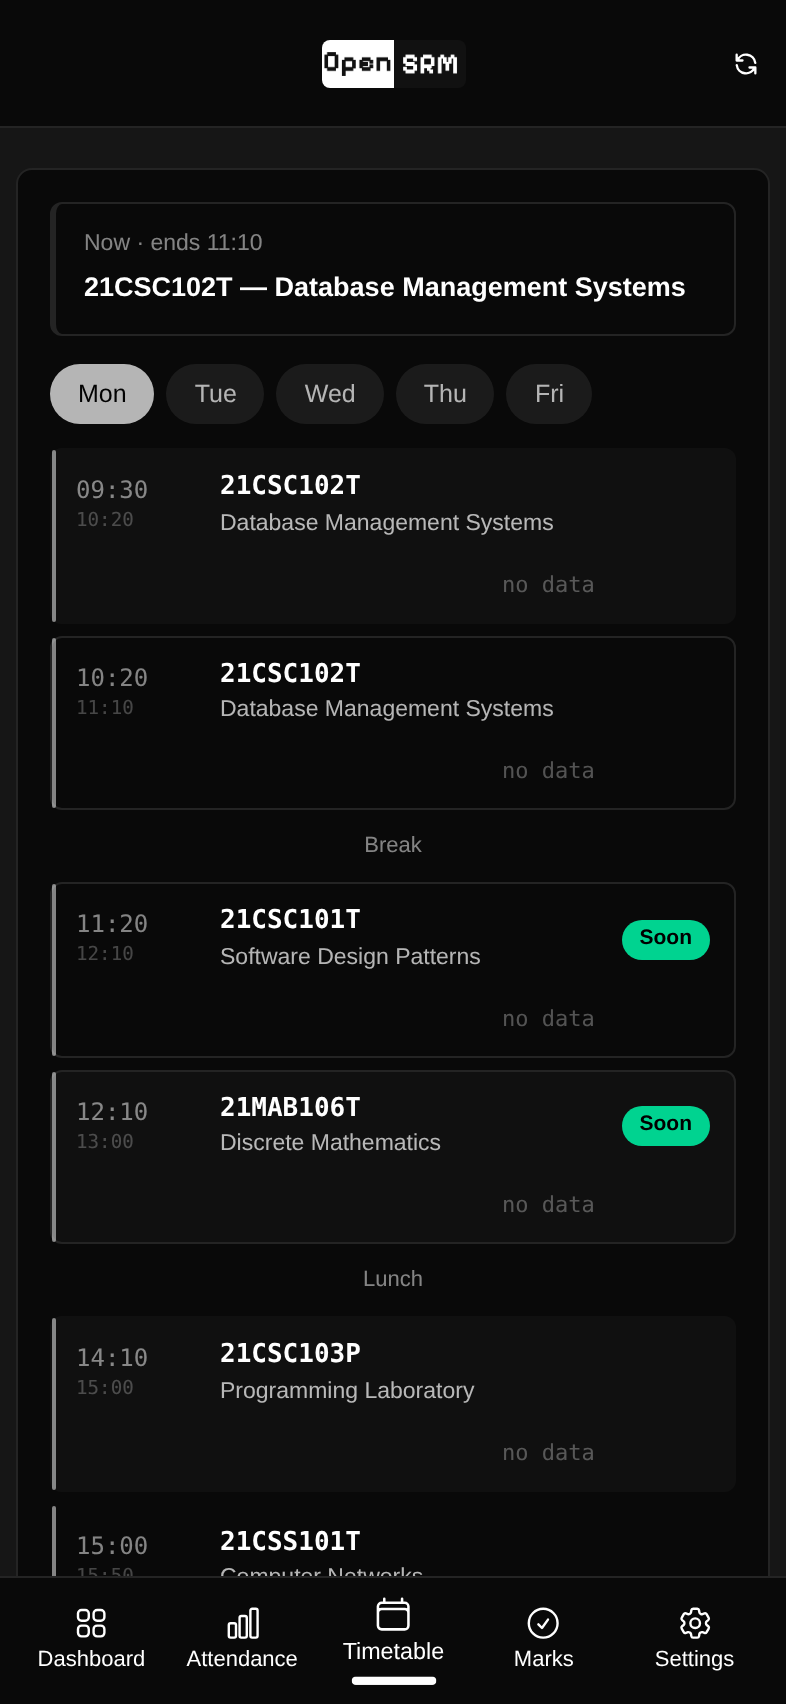
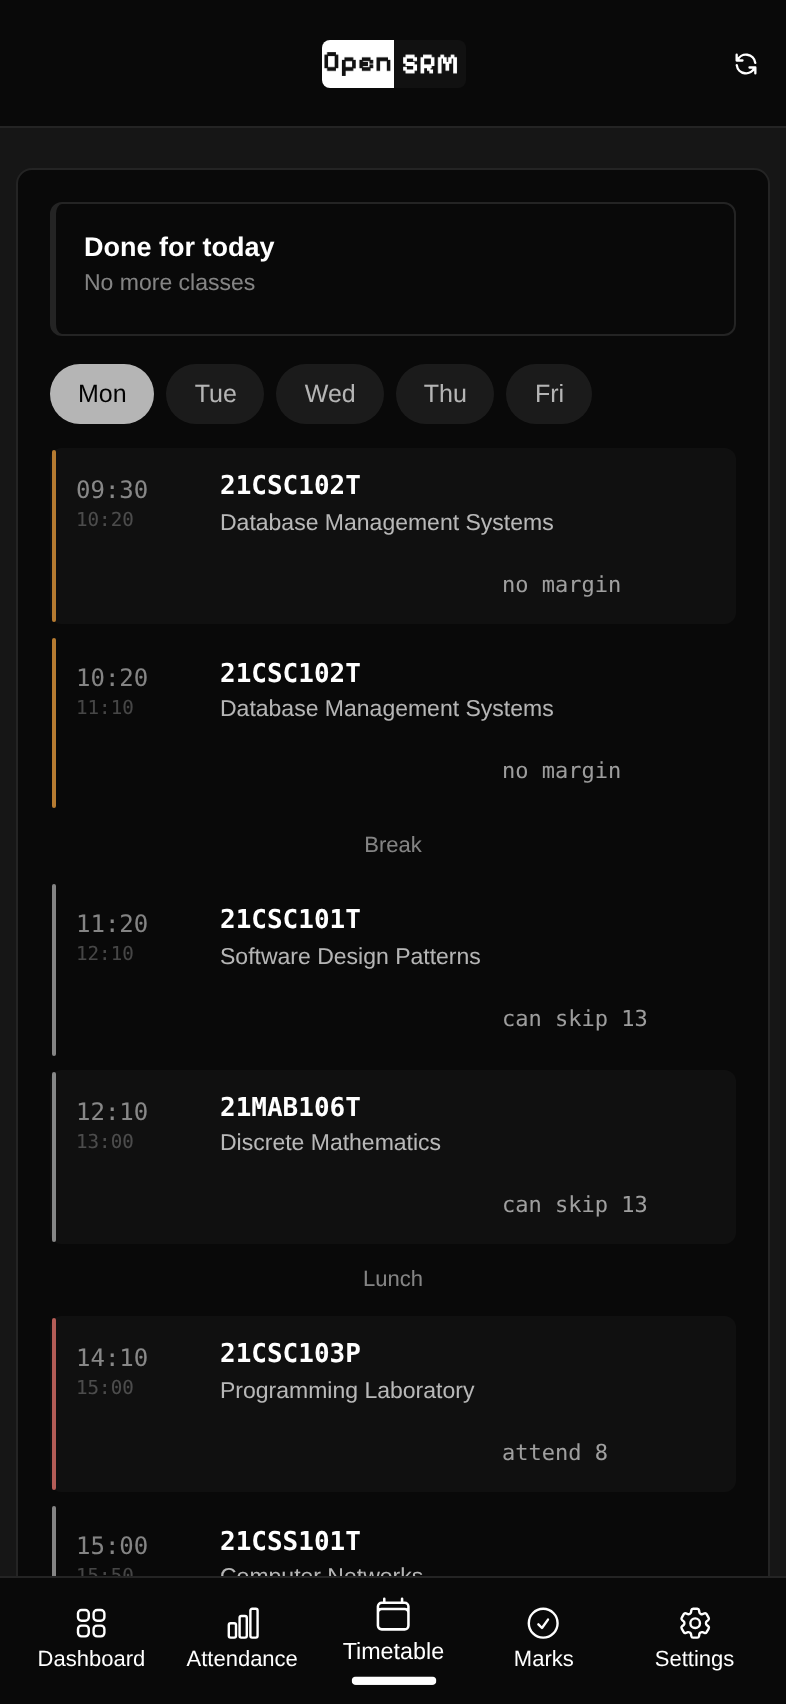
feat(timetable): Soon badge retired (Now pill on the live class); rim tiers proven (grey comfortable/yellow zero-margin/red below 75) with pixel-checked screenshots; sw v27; tests 50/50 + DUT 14/14

diff --git a/app/static/timetable.css b/app/static/timetable.css
@@ -50,7 +50,6 @@
         font-family:monospace;font-size:11px;color:color-mix(in oklab, var(--color-base-content) 60%, transparent)}
 .tt-sig--none{opacity:.5}
 .tt-badge{font-size:10.5px;padding:2px 9px;border-radius:999px;background:var(--color-success);color:var(--color-accent-content);font-weight:600}
-.tt-badge--soon{background:color-mix(in oklab, var(--color-base-content) 14%, transparent);color:color-mix(in oklab, var(--color-base-content) 70%, transparent)}
 .tt-divider{font-size:11px;color:var(--color-base-content);opacity:0.5;text-align:center;padding:4px 0}
 .tt-editor-header{display:flex;justify-content:space-between;align-items:center;flex-wrap:wrap;gap:8px;margin-bottom:12px}
 .tt-editor-actions{display:flex;gap:8px;flex-wrap:wrap}

diff --git a/app/static/sw.js b/app/static/sw.js
@@ -1,4 +1,4 @@
-const CACHE_NAME = 'opensrm-v26';
+const CACHE_NAME = 'opensrm-v27';
 
 self.addEventListener('install', e => {
   e.waitUntil(

diff --git a/tests/test_official_tt.py b/tests/test_official_tt.py
@@ -219,6 +219,50 @@ check("render shows corrected 09:30", "09:30" in html_out)
 check("render never shows raw 08:30", "08:30" not in html_out)
 check("render drops legacy p7 (16:00)", "16:00" not in html_out)
 
+# ── rim tiers + badge contract (Navya 2026-10-12): Soon retired; the left rim
+#    carries the attendance colours — grey comfortable / warn zero-margin / red below 75 ──
+_c = A.db()
+_codes = [r[0] for r in _c.execute(
+    "SELECT DISTINCT subject_code FROM timetable_slots WHERE subject_code!='' ORDER BY subject_code")]
+_c.close()
+check("rim fixtures: >=3 seeded codes", len(_codes) >= 3, str(_codes[:5]))
+if len(_codes) >= 3:
+    att3 = A._attendance_index([A._course_view(c) for c in [   # views carry skip_now/attend_now
+        {"code": _codes[0], "description": "", "attended": 40, "max_hours": 40},  # 100% → skip>0 → grey
+        {"code": _codes[1], "description": "", "attended": 3, "max_hours": 4},    #  75% → skip==0 → warn
+        {"code": _codes[2], "description": "", "attended": 1, "max_hours": 4},    #  25% → attend  → danger
+    ]])
+    html_r = A.timetable_html(GK, attendance=att3)
+    _rows = html_r.split('<div class="tt-row')[1:]
+
+    def _rim_for(code):
+        for seg in _rows:
+            if "<strong>{0}</strong>".format(code) in seg:
+                return ("danger" if "tt-riskbar--danger" in seg
+                        else "warn" if "tt-riskbar--warn" in seg else "grey")
+        return "absent"
+
+    check("rim tier: grey base (comfortable ≥75)", _rim_for(_codes[0]) == "grey", _rim_for(_codes[0]))
+    check("rim tier: warn yellow (at 75, zero margin)", _rim_for(_codes[1]) == "warn", _rim_for(_codes[1]))
+    check("rim tier: danger red (below 75)", _rim_for(_codes[2]) == "danger", _rim_for(_codes[2]))
+else:
+    check("rim tiers (need 3 codes)", False, "skipped")
+
+class _FixedDT(datetime):
+    @classmethod
+    def now(cls, tz=None):
+        return cls(2026, 10, 14, 10, 5)  # Wednesday 10:05 → inside period 1 (corrected 09:30–10:20)
+
+_orig_dt = A.datetime
+A.datetime = _FixedDT
+try:
+    html_now = A.timetable_html(GK, attendance={})
+finally:
+    A.datetime = _orig_dt
+check("Now badge renders on the live class (faked clock)", "<span class=tt-badge>Now</span>" in html_now)
+check("Soon badge retired — absent everywhere",
+      "Soon" not in html_now and "tt-badge--soon" not in html_out)
+
 print()
 print("%d/%d passed" % (total - len(fails), total))
 sys.exit(1 if fails else 0)

diff --git a/tests/dut_official_tt.py b/tests/dut_official_tt.py
@@ -1,5 +1,6 @@
 """DUT for the official-timetable UI: seed official rows, boot, drive the
 browser, DOM-assert the contract, screenshot desktop+mobile for vision QA."""
+import json
 import os
 import signal
 import socket
@@ -25,6 +26,17 @@ import app.app as A
 
 tt = A.parse_timetable((REPO / "tests/fixtures/timetable_form10.html").read_text())
 A._save_timetable_group("ng2776", {"personal": seed_mod.PERSONAL, "courses": [], "timetable": tt})
+# three attendance tiers round-robined over the fixture codes → the rim shows
+# grey (comfortable) / faded yellow (zero margin) / faded red (below 75) at once
+_TIER = [(40, 40), (3, 4), (1, 4)]
+_codes = sorted({c for d in tt["grid"].values() for c in d.values() if c})
+_att = [{"code": c, "description": tt["legend"].get(c, ""),
+         "attended": _TIER[i % 3][0], "max_hours": _TIER[i % 3][1]}
+        for i, c in enumerate(_codes)]
+_cc = A.db()
+_cc.execute("UPDATE users SET attendance_json=? WHERE netid='ng2776'",
+            (json.dumps({"courses": _att}),))
+_cc.commit(); _cc.close()
 token = seed_mod.mint_token()
 
 GUNICORN = "/opt/data/opensrm-repo/.venv/bin/gunicorn"
@@ -75,6 +87,11 @@ try:
         check("no raw 08:30 anywhere", "08:30" not in body)
         check("legacy 16:00 gone", "16:00" not in body)
         check("lunch divider present", "Lunch" in body)
+        check("Soon badge retired", "Soon" not in body and pg.locator(".tt-badge--soon").count() == 0)
+        check("rim: grey base (comfortable ≥75)",
+              pg.locator(".tt-riskbar:not(.tt-riskbar--danger):not(.tt-riskbar--warn)").count() > 0)
+        check("rim: faded yellow (zero margin)", pg.locator(".tt-riskbar--warn").count() > 0)
+        check("rim: faded red (below 75)", pg.locator(".tt-riskbar--danger").count() > 0)
 
         # archive contract (default TIMETABLE_EDITOR=archived): no edit entry
         check("edit button archived (absent)", pg.locator("#tt-edit-btn").count() == 0)

diff --git a/tests/_capture_before_after.py b/tests/_capture_before_after.py
@@ -45,6 +45,14 @@ for day, slots in grid.items():
         name = "SOFTWARE DESIGN PATTERNS" if code == "21CSC101T" else code
         c.execute("INSERT INTO timetable_slots(group_id,day,period,subject_code,subject_name,location) "
                   "VALUES(?,?,?,?,?,?)", (gid, day, int(p), code, name, ""))
+# three attendance tiers round-robined over the codes → rim colours (grey/
+# faded yellow/faded red) render in BOTH phases' shots (the rim exists on main)
+TIER = [(40, 40), (3, 4), (1, 4)]
+_codes = sorted({s for slots in grid.values() for s in slots.values()})
+c.execute("UPDATE users SET attendance_json=? WHERE netid='ng2776'",
+          (json.dumps({"courses": [
+              {"code": cd, "description": cd, "attended": TIER[i % 3][0], "max_hours": TIER[i % 3][1]}
+              for i, cd in enumerate(_codes)]}),))
 c.commit(); c.close()
 from app.app import make_session_token
 

diff --git a/app/app.py b/app/app.py
@@ -2269,8 +2269,9 @@ def timetable_html(group_key, attendance=None):
             elif d == today and now_mins < sm and (sm - now_mins) <= 120:
                 hl = "upcoming"
             cls = " tt-row--" + hl if hl else ""
-            # review R6/R9: no Now badge (the hero already says it); Soon stays
-            badge = "<span class=tt-badge tt-badge--soon>Soon</span>" if hl == "upcoming" else ""
+            # Navya 2026-10-12: Soon retired — only the live class carries "Now"
+            # (the hero repeats it; the badge marks the row itself).
+            badge = "<span class=tt-badge>Now</span>" if hl == "current" else ""
             loc_html = "<span class=tt-loc>{0}</span>".format(loc) if loc else ""
             # attendance glance (review R7): the slim risk rim IS the can-be-missed
             # indicator; the bare number is data. Neutral "no data" for

diff --git a/README.md b/README.md
@@ -22,7 +22,7 @@ A self-hosted attendance dashboard for the SRM Student Portal, built as a progre
 - **Internal Marks** — component-wise marks per subject (name + entered date + score), neutral numbers with a single muted outlier accent, IE-1/IE-2 roles derived from component maxima and confirmable per class (persisted for GPA prediction); glance widget on the dashboard
 - **End-sem exams** — official schedule from the portal's **Exam Time Table** page (`iden=126`, live since Oct 2026 — the only source with exact clock slots), merged per subject with the legacy `ScribeInner.jsp` leak (`iden=1` + any month/year — the portal doesn't validate against its own dropdown) as the **pre-release fallback**: official rows win per code, scribe rows fill subjects the official page leaves pending. Stamped-date dashboard card (day + weekday + countdown, source badge `Official` / `Official + est.` / `Estimated` derived from clock slots; room allotments from the same table render as `Hall … · Seat …` in the row meta). One-shot Web Push events fire on the estimate→official transition ("official timetable released") and on hall/seat publication or change (~1 day before each exam); card hides itself if no session is seeded or the portal closes the gap — and a portal response that lists subjects *without* dates (seen Oct 2026) never wipes the stored schedule
 - **Mid-sem feedback** — harvests the portal's Mid Sem Feedback form during any cold sync while the window is open into the subject→teacher map (the portal's only subject→teacher source — course lists carry no faculty), rendered as a dashboard "Teachers" card. **Filling is opt-in**: an *Auto-fill mid-sem feedback* button under the card opens an explainer modal — how it works (every teacher gets their own form — one portal form per teacher within a subject — 5 = EXCELLENT on all 14 questions, comment "none", live re-verify) plus the exact per-teacher list — and the modal's *Fill feedback* confirm button is the only path that writes to the portal (the sync itself is read-only, paced ~0.7s/request). The endpoint rebuilds the plan server-side from the stored map (same builder as the preview), re-verifies each subject live (already-filled / teacher-changed / window-closed all report honestly), and a closed window or changed portal markup aborts without touching attendance/marks; the stored map is only overwritten by a fresh successful harvest.
-- **Timetable** — per-group schedule from SQLite, **synced from the portal's Timetable page** (`iden=10`, live since Oct 2026): every sync replaces the group's rows with the published grid stamped `source='official'`. The portal's clock is wrong for this campus (-60/-40 min per period block), so read times go through `TIMETABLE_TIME_OFFSETS` — official+offset is pinned equal to the legacy grid in `tests/test_official_tt.py`; zero every offset plus one fixture re-capture when the portal fixes its clock. No published grid → legacy rows untouched; break/lunch dividers are derived from the corrected gaps (10m / 70m). Current/next class status; **no user input at all**: the drag-and-drop editor entry + save API are archived (`TIMETABLE_EDITOR` unset = shipped default; ops re-enables with `TIMETABLE_EDITOR=enabled` as the fallback if the portal's copy ever breaks); edit history archived alongside the editor (same `TIMETABLE_EDITOR` gate; the log API stays as read-only provenance — every allowed save logs who changed which slot and when)
+- **Timetable** — per-group schedule from SQLite, **synced from the portal's Timetable page** (`iden=10`, live since Oct 2026): every sync replaces the group's rows with the published grid stamped `source='official'`. The portal's clock is wrong for this campus (-60/-40 min per period block), so read times go through `TIMETABLE_TIME_OFFSETS` — official+offset is pinned equal to the legacy grid in `tests/test_official_tt.py`; zero every offset plus one fixture re-capture when the portal fixes its clock. No published grid → legacy rows untouched; break/lunch dividers are derived from the corrected gaps (10m / 70m). Current/next class status (only the live class gets a **Now** pill — the Soon badge is retired); every subject row's left rim is attendance-coloured like the attendance meter (grey = comfortably ≥75 · faded yellow = zero margin at 75 · faded red = below 75); **no user input at all**: the drag-and-drop editor entry + save API are archived (`TIMETABLE_EDITOR` unset = shipped default; ops re-enables with `TIMETABLE_EDITOR=enabled` as the fallback if the portal's copy ever breaks); edit history archived alongside the editor (same `TIMETABLE_EDITOR` gate; the log API stays as read-only provenance — every allowed save logs who changed which slot and when)
 - **Settings** — one tab that owns everything session-level: a collapsible **Personal details** row (identity header + collapse groups Academic, Personal, Family, Contact with present-field count badges; dense 2-column label-above-value grid with all groups open on desktop, first group only on mobile; click any value to copy it), the consolidated **Notifications** card, and **Log out** (moved out of the navbar/sync area)
 - **Hot/cold data** — attendance + marks + the official timetable grid refreshed and persisted on every sync; personal details/courses reused until stale (24h); rendered timetable served from SQLite (cached rows render instantly, even when a fetch fails — preserve-if-empty), so the page shows cached data with a quiet background re-sync
 - **Telemetry** — usage events (page views, logins, syncs) counted per netid in the app's own SQLite, same database as everything else; no third-party scripts, no cookies
@@ -72,7 +72,7 @@ DATA_DIR=./data gunicorn -w 1 --threads 8 -t 120 --worker-class gthread -b 0.0.0
 flowchart TD
     subgraph client["Client — installable PWA"]
         UI["Login + dashboard<br/>daisyUI · vanilla JS"]
-        SW["Service worker opensrm-v26<br/>network-first shell"]
+        SW["Service worker opensrm-v27<br/>network-first shell"]
     end
 
     subgraph edge["Cloudflare edge"]

diff --git a/AGENTS.md b/AGENTS.md
@@ -42,7 +42,7 @@ Migrations run on import (fresh `DATA_DIR` = fresh DB, boots clean — that's te
 .venv/bin/python tests/test_exams.py        # 69/69 (official ETT parser + header-drift adaptability + scribe fallback merge + transition/push events)
 .venv/bin/python tests/test_exams_view.py    # dashboard card view model (stamps, labels)
 .venv/bin/python tests/test_tt_history.py    # 18/18 (timetable edit log + break-divider fix + location preservation)
-.venv/bin/python tests/test_official_tt.py    # 44/44 (portal formId-10 parser + preserve/drift states, offset contract official==SLOTS, save/editor stamp round trip + archive gate 403, push+render wiring; committed sanitized fixture)
+.venv/bin/python tests/test_official_tt.py    # 50/50 (portal formId-10 parser + preserve/drift states, offset contract official==SLOTS, save/editor stamp round trip + archive gate 403, push+render wiring, rim tiers grey/warn/danger by attendance, Now badge + Soon retired under a faked clock; committed sanitized fixture)
 .venv/bin/python tests/test_sessions.py     # 5/5 (multi-device session survives a second login, expiry prunes at read, real logout deletes, prefetch logout is a no-op, index/refresh survive mid-request session loss)
 .venv/bin/python tests/test_login_reject.py  # rejection classifier + sync-quota order (offline)
 .venv/bin/python tests/test_fault_handling.py  # 9/9 (corrupt-row degradation B1-B4, _semester_int B5, marks preserve B6, S25 refetch, errorhandler)
@@ -78,11 +78,12 @@ export DATA_DIR=/tmp/osrm-marks
 .venv/bin/python tests/test_marks_dut.py     # 53/53 marks tab (colours, chips, uniform rows, tooltip, glance, dismiss, round-trip)
 kill %1
 
-# official-timetable DUT — self-boots gunicorn on a free port (seed+mint inside),
-# DOM-asserts corrected clock + archive contract (no badge, no history, no edit
-# button, save 403), screenshots desktop+mobile
+# official-timetable DUT — self-boots gunicorn on a free port (seed+mint inside,
+# seeds 3 attendance tiers so the rim colours render), DOM-asserts corrected
+# clock + archive contract (no badges/history/button, save 403) + rim tiers +
+# Soon retired, screenshots desktop+mobile
 # (needs PLAYWRIGHT_BROWSERS_PATH=/opt/data/cache/scratch/pw-browsers)
-.venv/bin/python tests/dut_official_tt.py    # 10/10 (archive contract under default TIMETABLE_EDITOR: synced badge gone, edit history gone, edit button absent, save API 403; guards: require_own_server + missing gunicorn; scrollWidth no-overflow @393)
+.venv/bin/python tests/dut_official_tt.py    # 14/14 (archive contract under default TIMETABLE_EDITOR: synced badge gone, edit history gone, edit button absent, save API 403; Soon retired + rim tiers grey/yellow/red by attendance; guards: require_own_server + missing gunicorn; scrollWidth no-overflow @393)
 
 export DATA_DIR=/tmp/osrm-navbar            # fresh dir; seed+mint happen inside the test
 .venv/bin/gunicorn -w 1 --threads 4 -b 127.0.0.1:18178 app.app:app &
@@ -145,7 +146,7 @@ before compose edits: copy `docker-compose.yml.bak-<date>` next to it.
 - `ss` doesn't exist on this host — check ports with a python socket bind, not `ss -tln`.
 - Flask test client: pass cookies via `set_cookie`, a `Cookie` header in `headers=` is dropped.
 - Timetable `DAY_ORDER` = full weekday names (`Monday`, not `Mon`).
-- SW cache name (read from `sw.js` — current value v26; test_sw.py derives it) must bump when `app/static/` changes — `test_sw.py` asserts it, and README's architecture diagram must match (verify76 L37/D58).
+- SW cache name (read from `sw.js` — current value v27; test_sw.py derives it) must bump when `app/static/` changes — `test_sw.py` asserts it, and README's architecture diagram must match (verify76 L37/D58).
 - Editing pyproject without `uv lock` fails CI (`uv lock --check`).
 - Login-page version badge comes from the `VERSION` file, not pyproject directly.
 - Two `CF_FULL_TOKEN=` lines exist in lab `/docker/.env` — the real one is the LAST (line 20).
